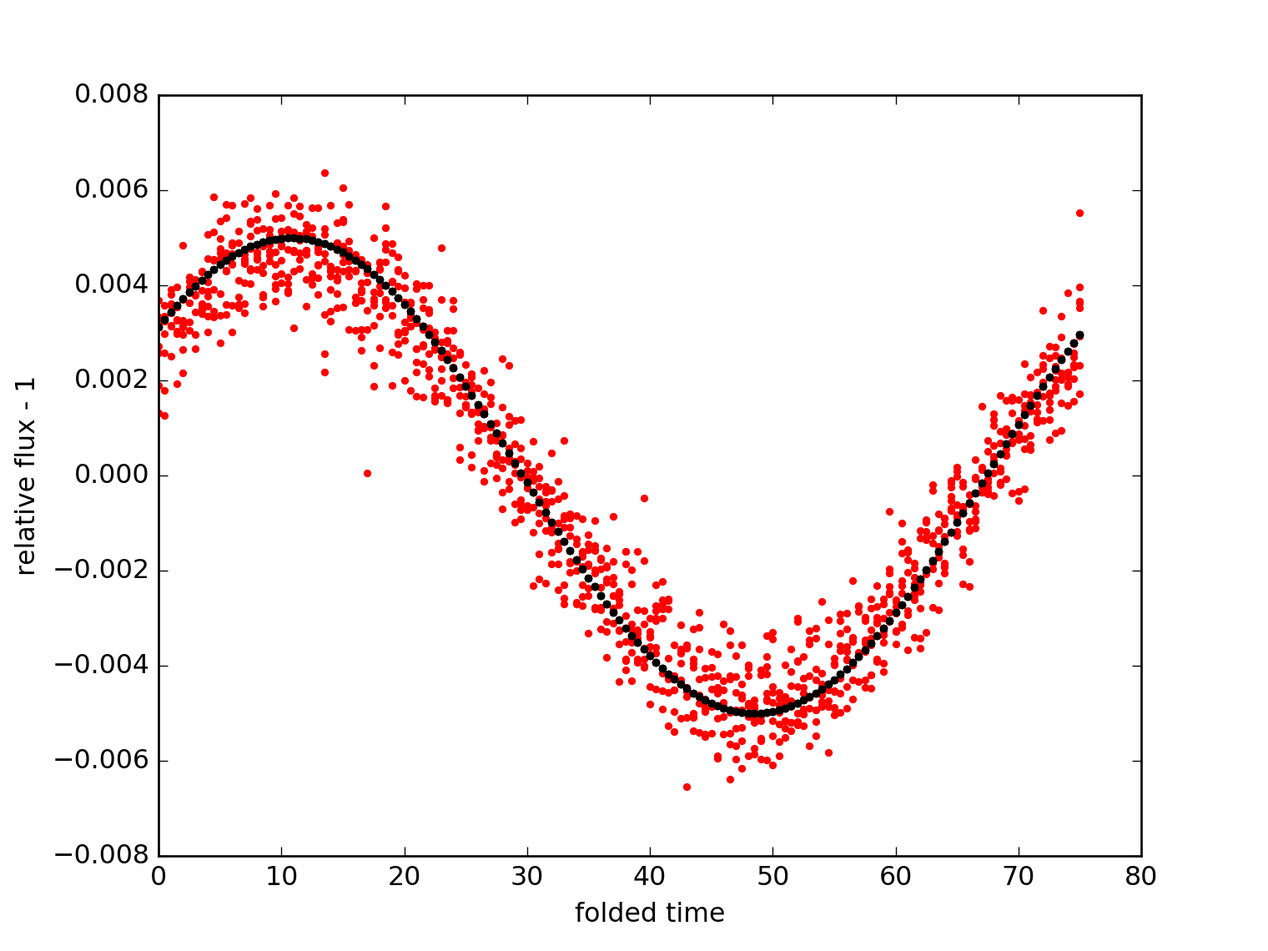
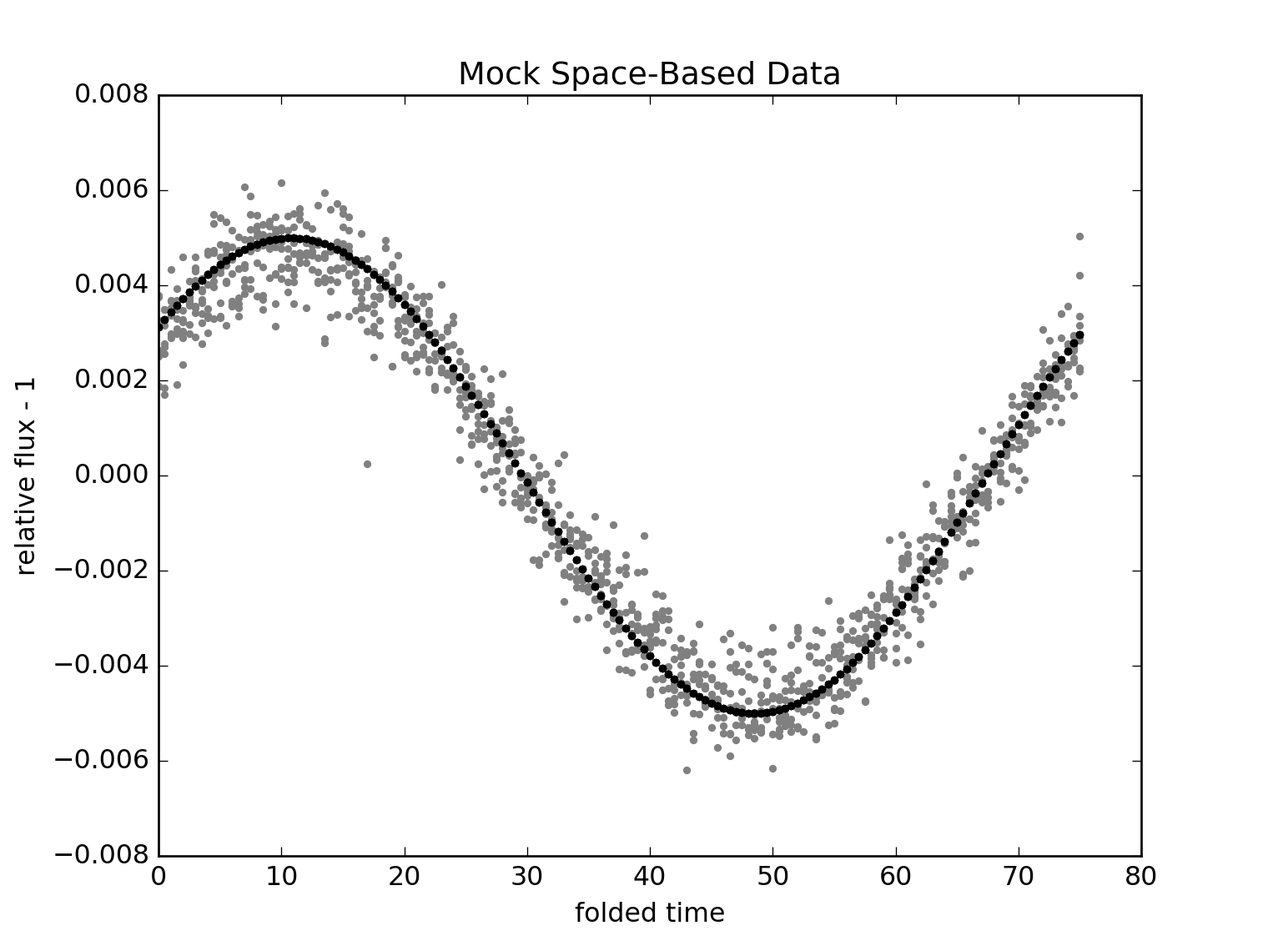
figures and acknowledgement

Changed region(s): [[0.1237, 0.1842, 0.8658, 0.8289], [0.3401, 0.0614, 0.6803, 0.0921]]

diff --git a/cdi.tex b/cdi.tex
@@ -57,11 +57,12 @@ Sagan Fellow}
 
 
 \begin{abstract}
-Difference imaging or image subtraction is a method that measures differential photometry by matching the pointings and point-spread functions (PSF) between image frames. 
-It has been successful in detecting time-variable objects and phenomena.
-Here we present a new category of method---\cpmdiff, in which differences are not measured between matched images but instead between image frames and a data-driven model---designed to only predict the systematic effects but not astronomical variability. 
-In \cpmdiff\ each pixel is modelled by the Causal Pixel Model (\cpm) originally built for modeling \kepler\ data, in which pixel values are predicted by a linear combination of other pixels on the same CCD but far enough away such that these pixels are causally disconnected, astrophysically. 
-The method is applied to  simulated data and also the \project{K2 Campaign 9} microlensing data. We show that \cpmdiff\ is able to detect variable objects and produce good photometry in a crowded field.
+Difference imaging or image subtraction is a method that measures differential photometry by matching the pointings and point-spread functions between image frames. 
+It has been extremely reliable for detecting time-variable phenomena.
+Here we present a new category of method---\cpmdiff, in which differences are not measured between matched images but instead between image frames and a data-driven predictive model---designed only to predict the systematic effects but not astronomical variability. 
+In \cpmdiff\ each pixel is modelled by the Causal Pixel Model (\cpm) originally built for modeling \kepler\ data, in which pixel values are predicted by a linear combination of other pixels at the sam epoch but far enough away such that these pixels are causally disconnected, astrophysically. 
+The method is applied to simulated data and also the \project{K2 Campaign 9} microlensing data. 
+We show that \cpmdiff\ is able to detect variable objects and produce good photometry in the crowded field.
 \cpmdiff\ is capable of producing image differences at nearly photon-noise precision. 
 Its principal drawback is that---in its current form---it requires an imaging campaign with many epochs and fairly stable telescope pointing.
 \end{abstract}
@@ -73,23 +74,25 @@ Difference imaging or image subtraction is a method developed for detecting vari
 The common workflow for difference imaging is:
 \begin{enumerate}
 \item
-Creating a reference image, either stack of image frames or a frame with the best seeing.
+Create a reference image, either stack of image frames or a frame with the best seeing.
 \item
-Registering each frame to the reference frame.
+Astrometrically Register each frame to the reference frame.
 \item
-Matching the seeing between each frame of image and the reference frame by fitting a convolution kernel that accounts for the differences between the PSFs of the frames.
+Match the seeing between each frame of image and the reference frame by fitting a convolution kernel that accounts for the differences between the PSFs of the frames.
 \item
-Matching the mean throughput or photometric calibration of the two frames and subtracting to find sources that have varied.
+Match the mean throughput or photometric calibration of the two frames and subtract to find sources that have varied.
 \end{enumerate}
 The main challenge of the difference imaging problem lies in the inference of the convolution kernel that corrects the difference of PSFs between two frames.
 The first attempt at difference imaging or image subtraction was made by \cite{imagesub1}, who suggested to calculate a convolution kernel by using a bright star to match different image frames. 
 \cite{alard} improved the method by decomposing the kernel into a linear combination of basis functions and then fitting a constant convolution kernel to match the PSFs of images.
-The current preference for difference imaging \citep{varyingkernel} is to divide images into sub-areas and fit a varying kernel to account for the spatial variation of the PSF. This method is implemented and widely used as \project{HOTPANTS}\footnote{\url{http://www.astro.washington.edu/users/becker/v2.0/hotpants.html}} and \project{ISIS}\footnote{\url{http://www2.iap.fr/users/alard/package.html}}. 
+The current preference for difference imaging \citep{varyingkernel} is to divide images into sub-areas and fit a varying kernel to account for the spatial variation of the PSF. 
+This method is implemented and widely used as \project{HOTPANTS}\footnote{\url{http://www.astro.washington.edu/users/becker/v2.0/hotpants.html}} and \project{ISIS}\footnote{\url{http://www2.iap.fr/users/alard/package.html}}, \cite{varyingkernel}. 
 \cite{bramich} goes even further; they handle more complicated kernels by generalizing to a discrete pixel array instead of a linear combination of basis functions.
 Difference imaging achieved great success in detecting variable sources such as microlensing events search \citep{macho, ogle} and supernova survey \citep{sdss}.
-These kind of method will even play an more important role in time-domain astronomy in the near future. 
+These kinds of methods will play an even more important role in time-domain astronomy in the near future. 
 There will be the \project{LSST} \citep{lsst}, which will image the entire night sky to great depth repeatedly to find distant transient events of known kinds and even discover new class of variable objects. 
-There will be the \project{TESS} \citep{tess}, which will produce a continuous series of full frame images covering 2300 $deg^2$ of the sky with 30-minute cadence, in which bunch of variable sources such as near-Earth asteroids,  bright AGN outbursts and nearby supernovae will be detected. 
+There will be the \project{TESS} \citep{tess}, which will produce a continuous series of full frame images covering 2300 $deg^2$ of the sky with 30-minute cadence, in which bunch of variable sources such as near-Earth asteroids,  bright AGN outbursts and nearby supernovae will be detected.
+There will also be \project{Euclid} \citep{Euclid} and \project{WFIRST} \citep{wfirst}, which are likely to have time-domain survey fields.
 
 As mentioned above, the difference imaging methods so far \citep{imagesub1, alard, varyingkernel, bramich} all follow the same framework; the only difference lies in how the convolution kernel is calculated, so hereafter in this paper we refer to these methods as classical difference imaging. 
 The method proposed in this paper is completely different from the classical approach. 
@@ -97,7 +100,8 @@ There is no reference image in \cpmdiff.
 Instead of modelling each image based on the reference image, each pixel will be modelled directly by a linear combination of other pixels from the same image. 
 In that sense, each image is its own reference image and it is the coefficients of the predictive model that are learned from the other images.
 Since the model of the image is built from itself, there is no need to measure the difference of PSFs between images and thus no convolution kernel in \cpmdiff. 
-Finally, while in the classical approach only two images are compared with each other to measure the difference of PSFs, in \cpmdiff\ all other images are used together to learn the coefficients, which tells how pixels are related to one another.
+Finally, while in the classical approach only two images are compared with each other to measure the difference of PSFs, in \cpmdiff\ all other images are used together to learn the coefficients, which describe how pixels are related to one another.
+In what follows, we elucidate this method and look at its capabilities and limitations.
 
 \section{The Method} \label{method}
 \cpmdiff\ depends on the following assumptions about the data:
@@ -185,17 +189,17 @@ Parameters $f_x$, $f_y$, $\theta$ are adjusted to change the shape and width of 
 
 After the series of images is generated, a flat-field error $\epsilon_{r,s}$ is drawn from a normal distribution with $\mu=1, \sigma=0.01$ to account for the inter-pixel variation of the detector.
 With the flat-field error included, the value of the each pixel is $p'_{r,s} = p_{r,s}\epsilon_{r,s}$.
-Finally photon noise approximated by a Gaussian with $\sigma = 0.0001$ is also added to each individual pixel.
+Finally photon noise approximated by a Gaussian with $\sigma = 10^{-4}$ is also added to each individual pixel.
 
-\subsection{Space-based mock data}
+\subsection{Mock space-based data}
 In space-based observations like those made in the \kepler\ mission, the systematics are mainly caused by changes of the pointing and rotation of the camera, while the PSF is relatively stable. 
-Thus the space-based mock data only includes the pointing motion and rotation, but maintains the PSF unchanged.
+Thus the mock space-based data only includes the pointing motion and rotation, but maintains the PSF unchanged.
 In this experiment, the pointing changes in both x and y direction have an amplitude of one pixel and the rotation is restricted within 0.5 deg with respective to the center of the image. 
 Both $t_x $ and $t_y$ in equation \ref{transformation} are drawn from uniform distribution ${\mathcal {U}}(0,1)$ and $\theta$ is drawn from ${\mathcal {U}}(0,0.5)$. 
 To illustrate how variable sources will be detected in \cpmdiff, one single periodic variable star (modelled by a sine function) is injected in the image.
-Fig~\ref{space} shows three snapshots of the mock data and the \cpmdiff\ of different times. 
+Fig.~\ref{space} shows three snapshots of the mock data and the \cpmdiff\ of different times. 
 The \cpm\ modelled the data with precision close to the photon noise, except the injected variable was still preserved in the difference image. 
-Fig~\ref{space_lc} shows the light curve of the injected variable star and the recovered light curve by co-adding the pixels in a $7\times 7$ patch around the source star.
+Fig.~\ref{space_lc} shows the light curve of the injected variable star and the recovered light curve by co-adding the pixels in a $7\times 7$ patch around the source star.
 The choice of the aperture size is not optimal but big enough to include all the flux from the source star. 
 There is no PSF and flat-field information used in extracting the light curve. 
 Therefore the photometry is not optimal and is only intended for demonstration.
@@ -209,13 +213,14 @@ Therefore the photometry is not optimal and is only intended for demonstration.
 \end{center}
 \caption{
 \label{space}
-  An $80\times 80$ pixel mock data image patch with pointing motion. 
+  Mock Space-Based Data---an $80\times 80$ pixel mock data image patch with pointing motion and rotation variation. 
   From top to the bottom,  each row shows a snapshot from different times.
   \emph{Left:} mock data image;
   \emph{Middle:} the prediction of the \cpmdiff;
   \emph{Right:} the relative difference between the data and the prediction, the color bar shows the relative difference;
-  the histogram shows the distribution of the difference and the dashed curve is the photon noise: Gaussian with $\sigma = 0.0001$.
-  Most of the pixel values are around zero, except for the variable source (upper-left corner), which means the \cpmdiff\ can predict the image data, while detects the variables. 
+  the histogram shows the distribution of the difference and the dashed curve is the photon noise: Gaussian with $\sigma = 10^{-4}$.
+  Note the small but significant astrometric shifts between images.
+  Most of the pixel values are around zero, except for the variable source (upper-left corner), which shows that \cpmdiff\ can predict the image data, while detecting the variables. 
 }
 \end{figure}
 
@@ -225,18 +230,18 @@ Therefore the photometry is not optimal and is only intended for demonstration.
 \end{center}
 \caption{
 \label{space_lc}
- The folded light curve of the variable star from the space-based mock data.
- The black points are the injected signal and the red points are the recovered light curve from the \cpmdiff\ by co-adding the pixels in a $7\times 7$ patch around the source star.
+ The folded light curve of the variable star from the mock space-based data shown in Fig.~\ref{space}.
+ The black points are the injected signal and the grey points are the recovered light curve from the \cpmdiff\ by co-adding the pixels in a $7\times 7$ patch around the source star.
 }
 \end{figure}
 
-\subsection{Ground-based mock data}
+\subsection{Mock ground-based data}
 In ground-based observations, apart from changes in pointing and rotation, weather changes and atmospheric distortions will also affect the PSF dramatically. 
 Therefore the PSF variation was also included in the mock data. 
 The pointing motion and rotation of the mock data are same as in the space-based test.
 Variation of the PSF is achieved by varying the parameters $f_x, f_y, \theta$ defined in equation \ref{prf}.
 Both $f_x$ and $f_y$ are drawn from uniform distribution ${\mathcal {U}}(2,3)$ to restrict the full width half maximum of the PRF in both direction within 2-3 pixels and $\theta$ is drawn from ${\mathcal {U}}(0,\pi)$, which allows the orientation of the PRF to be in any direction.
-Fig~\ref{ground} and Fig~\ref{ground_lc} show the same mock data and light curves as in space-based test, but with PRF variation included.  
+Fig.~\ref{ground} and Fig.~\ref{ground_lc} show the same mock data and light curves as in space-based test, but with PRF variation included.  
 As in the space-based test, the \cpmdiff\ was able to model both pointing motion and PRF variations, while still detect the variable star in the differencing image.
 Note that the PRF variations do degrade the quality of the difference image a little, since the changes of the PRF will change the correlation between pixels.
 This experiment further confirms that \cpmdiff\ can calibrate both space-based and ground-based data.
@@ -250,13 +255,13 @@ This experiment further confirms that \cpmdiff\ can calibrate both space-based a
 \end{center}
 \caption{
   \label{ground}
-  An $80\times 80$ pixel mock data image patch with pointing motion, rotation and PRF variation. 
+  Mock Ground-Based Data---an $80\times 80$ pixel mock data image patch with pointing motion, rotation and PRF variation. 
   From top to the bottom,  each row shows a snapshot from different times.
   \emph{Left:} mock data image;
   \emph{Middle:} the prediction of the \cpmdiff;
   \emph{Right:} the relative difference between the data and the prediction, the color bar shows the relative difference; 
-  the histogram shows the distribution of the difference and the dashed curve is the photon noise: Gaussian with $\sigma = 0.0001$. 
-  As in the space-based test, \cpmdiff\ subtratcted all the constant stars and retained the variable sources with the ground-based mock data, which shows that the method can handle pointing motion, rotation and PRF variation altogether. 
+  the histogram shows the distribution of the difference and the dashed curve is the photon noise: Gaussian with $\sigma = 10^{-4}$. 
+  As in the space-based test, \cpmdiff\ subtratcted all the constant stars and retained the variable sources with the mock ground-based data, which shows that the method can handle pointing motion, rotation and PRF variation altogether. 
 }
 \end{figure}
 
@@ -266,8 +271,8 @@ This experiment further confirms that \cpmdiff\ can calibrate both space-based a
 \end{center}
 \caption{
 \label{ground_lc}
- The folded light curve of the variable star from the ground-based mock data.
- The black points are the injected signal and the red points are the recovered light curve from the \cpmdiff\ by co-adding the pixels in a $7\times 7$ patch around the source star.
+ The folded light curve of the variable star from the mock ground-based data.
+ The black points are the injected signal and the grey points are the recovered light curve from the \cpmdiff\ by co-adding the pixels in a $7\times 7$ patch around the source star.
 }
 \end{figure}
 
@@ -275,10 +280,10 @@ This experiment further confirms that \cpmdiff\ can calibrate both space-based a
 Now we test our method on a $64\times50$ pixel patch (\epic\ 200069960) from \KTCN\footnote{\url{https://keplerscience.arc.nasa.gov/k2-c9.html}}\citep{k2c9}, which was dedicated to a study of gravitational microlensing events.
 This data set is an ideal test bed for difference imaging, since it observed a very crowded field near the bulge, where high precision photometry is difficult to achieve directly.
 
-Fig~\ref{k2c9} shows three snapshots of the data and the \cpmdiff\ of different times.
+Fig.~\ref{k2c9} shows three snapshots of the data and the \cpmdiff\ of different times.
 Constant sources in the dense field were almost all cancelled with the \cpm\ prediction, while variables (located at the red box) were preserved and can even be picked by eye from the difference image.
 Variable sources were detected with the variation map (mean of absolute normalized deviations of the difference image). 
-Light curves of six variable sources with highest signal to noise ratio is presented in Fig~\ref{lightcurve} as examples. 
+Light curves of six variable sources with highest signal to noise ratio is presented in Fig.~\ref{lightcurve} as examples. 
 Each light curve was constructed with simple aperture photometry, by co-adding all the difference flux within a $3 \times 3$ aperture. 
 Note that this is not optimal photometry; it is simply illustration of what is possible with this method.
 
@@ -291,11 +296,11 @@ Note that this is not optimal photometry; it is simply illustration of what is p
 \end{center}
 \caption{
   \label{k2c9}
-  A $64\times 50$ pixel image patch from \KTCN\ (\epic\ 200069960). 
+  \KTCN\ Data---a $64\times 50$ pixel image patch from \KTCN\ (\epic\ 200069960). 
   From top to the bottom,  each row shows a snapshot from different times.
   \emph{Left:} data image;
   \emph{Middle:} the prediction of the \cpmdiff;
-  \emph{Right:} the difference between the data and the prediction, red boxes indicates detected variable sources.  
+  \emph{Right:} the difference between the data and the prediction, white crosshairs indicate detected variable sources.
   The \cpmdiff\ subtracted all the constant sources in the data image, while preserve the variable sources in the difference image.
 }
 \end{figure}
@@ -311,7 +316,7 @@ Note that this is not optimal photometry; it is simply illustration of what is p
 \end{center}
 \caption{
   \label{lightcurve}
-  Six light curves extracted from \KTCN\ \epic\ 200069960 by \cpmdiff. 
+  \KTCN\ Data---six light curves extracted from \KTCN\ \epic\ 200069960 by \cpmdiff. 
   Each light curve was generated by co-adding all the difference flux within a $3\times 3$ aperature.
 }
 \end{figure}
@@ -323,19 +328,18 @@ In this section, we want to push these variations to the limitation of \cpmdiff\
 
 First, mock data with the same rotation and PRF variations, but different amplitudes of pointing motion were tested by the model.
 Here both $t_x$ and $t_y$ defined in equation \ref{transformation} were drawn from uniform distribution ${\mathcal {U}}(0,t_A)$, in which the upper limit $t_A$ defines the amplitude of the pointing motion.
-Fig~\ref{large_motion} shows that with the amplitude of the pointing motion increasing,  the quality of the difference image degrades dramatically, especially around relatively bright sources, because of the additional variabilities introduced by the motion of bright stars.
-In order to quantitatively study the limitation of the pointing variation, the quality of each difference image is evaluated by the root-mean-square residual (RMS residual) and the overall performance of the model is determined by the median of the RMS Residuals of all the difference images.
-Fig~\ref{motion_rms} shows the median RMS residual as a function of the amplitude of the pointing motion. 
-These three lines in the plot show how this relation changes with the width of PRF.
-With the width of the PRF increasing, the model can performs better with larger pointing variations.
-This test also confirms the assumption that the registration should be good to about or better than one PSF width.
-Again, in Fig~\ref{large_rotation}, mock data with the same pointing and PRF variations, but different amplitudes of rotation were tested by the model.
+Fig.~\ref{large_motion} shows that with the amplitude of the pointing motion increasing,  the quality of the difference image degrades dramatically, especially around relatively bright sources, because of the additional variabilities introduced by the motion of bright stars.
+Similarly, in Fig.~\ref{large_rotation}, mock data with the same pointing and PRF variations, but different amplitudes of rotation were tested by the model.
 In each data set, $\theta$ defined in equation \ref{transformation} was drawn from uniform distribution ${\mathcal {U}}(0,\theta_A)$, in which the upper limit $\theta_A$ defines the amplitude of the rotation.
 The corner of the difference image is much worse modelled, since the images are worse aligned in the corner due to the rotation. 
-Fig~\ref{rotation_rms} describes how the model degrades with increasing of the  rotation.
+In order to quantitatively study the limitation of the pointing and rotation variation, the quality of each difference image is evaluated by the root-median-square residual (RMS residual) and the overall performance of the model is determined by the median of the RMS Residuals of all the difference images.
+The amplitude of the pointing and rotation variations are both translated to the overall motions of stars in unit of FWHM of PRF.
+Fig.~\ref{motion_rms} shows the median RMS residual as a function of the RMS motions of stars in different scenarios. 
+These four lines in the plot show almost consistent relation that image quality degrades with moving stars by FWHMs.
+This test also confirms the assumption that the registration should be good to about or better than one PSF width.
 Finally, mock data with different amplitudes of PRF variation were tested.
 Parameters $f_x$ and $f_y$ defined in equation \ref{prf} were drawn from uniform distribution ${\mathcal {U}}(2,f_{max})$, in which the width of the uniform distribution $f_{max}-2$ defines the amplitude of the PRF variation.
-Fig~\ref{large_prf} and Fig~\ref{prf_rms} indicate that large PRF variations do degrade the performance of the model, since dramatic changes of the PRF can also largely change the correlation between pixels.
+Fig.~\ref{large_prf} and Fig.~\ref{prf_rms} indicate that large PRF variations do degrade the performance of the model, since dramatic changes of the PRF can also largely change the correlation between pixels.
 However, from the experiment, moderate PRF variations are still acceptable. 
 
 \begin{figure}[p]
@@ -350,22 +354,8 @@ However, from the experiment, moderate PRF variations are still acceptable.
   Three $80\times 80$ pixel mock data images with the same rotation and PSF variation, but different amplitudes of pointing motion. The amplitude of the pointing motion increases from top to the bottom.
   \emph{Left:} mock data image;
   \emph{Middle:} the prediction of the \cpmdiff;
-  \emph{Right:} the relative difference between the data and the prediction, the color bar shows the relative difference; the histogram shows the distribution of the difference and the dashed curve is the photon noise: Gaussian with $\sigma = 0.0001$. 
+  \emph{Right:} the relative difference between the data and the prediction, the color bar shows the relative difference; the histogram shows the distribution of the difference and the dashed curve is the photon noise: Gaussian with $\sigma = 10^{-4}$. 
   With the amplitude of the pointing motion increasing, the prediction of the \cpmdiff\ degrades.
-}
-\end{figure}
-
-\begin{figure}[p]
-\begin{center}
-\includegraphics[width=0.95\textwidth]{motion}
-\end{center}
-\caption{
-\label{motion_rms}
- Median root-mean-square residual as a function of the amplitude of pointing motion with different PRF width.
- Different markers and colors indicate different PRF width.
- \emph{Blue dots}: FWHM of PRF = 2.5 pixels;
- \emph{Green cross}: FWHM of PRF = 4 pixels;
- \emph{Red stars}: FWHM of PRF = 6 pixels;
 }
 \end{figure}
 
@@ -381,20 +371,26 @@ However, from the experiment, moderate PRF variations are still acceptable.
   Three $80\times 80$ pixel mock data images with the same pointing motion and PRF variation, but different amplitudes of rotation. The amplitude of rotation increases from top to the bottom.
   \emph{Left:} mock data image;
   \emph{Middle:} the prediction of the \cpmdiff;
-  \emph{Right:} the relative difference between the data and the prediction, the color bar shows the relative difference; the histogram shows the distribution of the difference and the dashed curve is the photon noise: Gaussian with $\sigma = 0.0001$. 
+  \emph{Right:} the relative difference between the data and the prediction, the color bar shows the relative difference; the histogram shows the distribution of the difference and the dashed curve is the photon noise: Gaussian with $\sigma = 10^{-4}$. 
   With the amplitude of rotation increasing, the quality of the difference image drops dramtically in the corner, while almostly remains unchanged in the middle.
 }
 \end{figure}
 
 \begin{figure}[p]
 \begin{center}
-\includegraphics[width=0.95\textwidth]{rotation}
+\includegraphics[width=0.95\textwidth]{move_new}
 \end{center}
 \caption{
-\label{rotation_rms}
- Median root-mean-square residual as a function of the amplitude of rotation.
+\label{motion_rms}
+ Median root-mean-square residual as a function of the root-mean-square motions of stars in unit of FWHM of PRF.
+ Different markers and colors indicate different scenarios.
+ \emph{Blue dots}: pointing variation with FWHM of PRF = 2.5 pixels;
+ \emph{Green cross}: pointing variation with FWHM of PRF = 4 pixels;
+ \emph{Red stars}: pointing variation with FWHM of PRF = 6 pixels;
+ \emph{Black triangle}: rotation with FWHM of PRF = 2.5 pixels;
 }
 \end{figure}
+
 
 \begin{figure}[p]
 \begin{center}
@@ -408,7 +404,7 @@ However, from the experiment, moderate PRF variations are still acceptable.
   Three $80\times 80$ pixel mock data images with the same pointing motion and rotation, but different amplitudes of PRF variation. The amplitude of PRF variation increases from top to the bottom.
   \emph{Left:} mock data image;
   \emph{Middle:} the prediction of the \cpmdiff;
-  \emph{Right:} the relative difference between the data and the prediction, the color bar shows the relative difference; the histogram shows the distribution of the difference and the dashed curve is the photon noise: Gaussian with $\sigma = 0.0001$. 
+  \emph{Right:} the relative difference between the data and the prediction, the color bar shows the relative difference; the histogram shows the distribution of the difference and the dashed curve is the photon noise: Gaussian with $\sigma = 10^{-4}$. 
   With the amplitude of PRF variation increasing, the quality of the difference image degrades.
 }
 \end{figure}
@@ -439,7 +435,20 @@ Other feature reduction and extraction methods such as PCA or adding higher orde
 
 To conclude, the new approach of image differencing---\cpmdiff\ is capable of variability search in time-domain imaging from both space-based and ground-based data.
 The performance of the method can still be further enhanced by optimizing the hyper-parameters or exploring the possible way to improve the predictor set.
-We hope \cpmdiff\ can be useful and achieve more scientific results in the future survey such as \project{LSST} and \project{TESS}.
+We hope \cpmdiff\ can be useful and achieve more scientific results in the future survey such as \project{LSST} and \project{TESS}.
+
+\acknowledgements
+It is a pleasure to thank
+  Federica B. Bianco (NYU)
+  and
+  Dustin Lang (Toronto)
+for valuable comments and suggestions.
+This research was partially supported by
+  NASA (grant NNX12AI50G),
+  NSF (grants IIS-1124794, AST-1312863, AST-1517237),
+  and NG Next.
+The data analysis presented in this article was partially performed on computational resources at NYU HPC.
+This research made use of the NASA Astrophysics Data System.
 
 \clearpage
 \bibliography{cdi}
